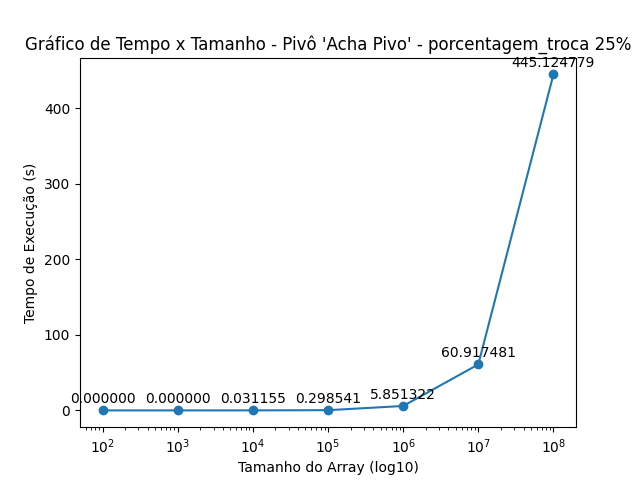
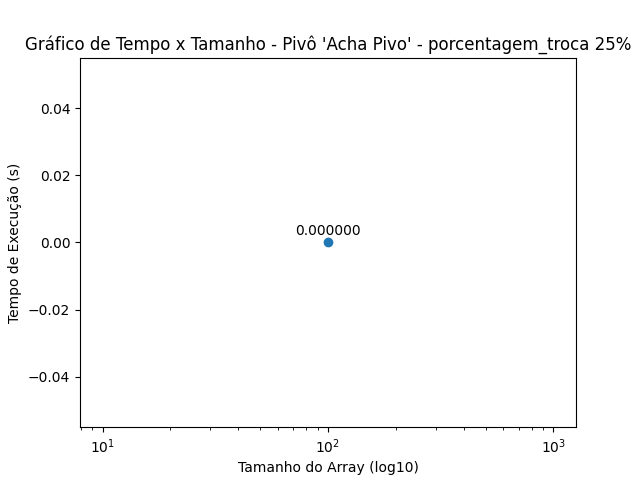
Deixando Comentado para apresentar e refatoração de componentes

diff --git a/main.py b/main.py
@@ -1,53 +1,15 @@
-import random
-import random
-import os
-import matplotlib.pyplot as plt
-
 from QuickSort import QuickSort
+from mediana import trocar_porcentagem
+from util import plotar_e_salvar_grafico
 
+quantidade_iteracoes = 10
 
-def trocar_porcentagem(array, porcentagem):
-    if porcentagem < 0 or porcentagem > 100:
-        raise ValueError("A porcentagem deve estar entre 0 e 100.")
+tamanhos_array = [int(1e2), int(1e3), int(1e4), int(1e5), int(1e6), int(1e7)]
 
-    n = len(array)
-    num_trocas = int(n * porcentagem / 100)
-
-    for _ in range(num_trocas):
-        index_a, index_b = random.sample(range(n), 2)
-        array[index_a], array[index_b] = array[index_b], array[index_a]
-
-def plotar_e_salvar_grafico(tempo, tamanho, titulo, nome_arquivo):
-    # Verifica se as listas têm o mesmo tamanho
-    if len(tempo) != len(tamanho):
-        raise ValueError("As listas de tempo e tamanho devem ter o mesmo tamanho")
-
-    # Cria uma nova figura a cada iteração para mostrar apenas a linha atual
-    plt.figure()
-
-    # Plota a linha atual com escala logarítmica apenas no eixo X (base 10)
-    plt.semilogx(tamanho, tempo, marker='o')
-
-    # Adiciona título e rótulos aos eixos
-    plt.title(titulo)
-    plt.xlabel('Tamanho do Array (log10)')
-    plt.ylabel('Tempo de Execução (s)')
-
-    # Marca todos os pontos no gráfico
-    for i, txt in enumerate(tempo):
-        plt.annotate(f'{txt:.6f}', (tamanho[i], tempo[i]), textcoords="offset points", xytext=(0,5), ha='center')
-
-    # Verifica se a pasta 'grafico' existe, se não, cria
-    if not os.path.exists('grafico'):
-        os.makedirs('grafico')
-
-    # Salva a figura na pasta 'grafico'
-    caminho_arquivo = os.path.join('grafico', nome_arquivo)
-    plt.savefig(caminho_arquivo)
-
-tamanhos_array = [int(1e2), int(1e3), int(1e4), int(1e5), int(1e6), int(1e7), int(1e8)]
 porcentagens_troca = [45, 25, 5]
+
 metodos_pivo = [1, 2, 3, 4, 6, 5]
+
 metodos_pivo_nome = ["Primeiro", "Central",
                      "Média", "Randômico", "Mediana", "Acha Pivo"]
 
@@ -62,29 +24,38 @@ if __name__ == "__main__":
             titulo = f"Gráfico de Tempo x Tamanho - Pivô '{metodos_pivo_nome[metodo_pivo-1]}' - porcentagem_troca {porcentagem_troca}%"
 
             for tamanho_array in tamanhos_array:
-
-                lista_aleatoria = list(range(tamanho_array))
-
-                # Embaralhando a lista aleatória
-                trocar_porcentagem(lista_aleatoria, porcentagem_troca)
                 
-                # Criando uma instância da classe QuickSort
-                quick_sort = QuickSort(lista_aleatoria.copy())
+                tempo = 0
+                
+                for iteracao in range(quantidade_iteracoes):
+                    # Criando uma lista aleatória para ordenar
+                    lista_aleatoria = list(range(tamanho_array))
 
-                # Clonando a lista original para não modificar a original
-                lista_copia = lista_aleatoria.copy()
-                
-                # Ordenando a lista usando o método de escolha de pivô específico
-                quick_sort.ordenar(lista_copia, metodo_pivo)
-                
-                # Lista anterior
-                # print(lista_aleatoria)
-                # Exibindo o resultado
-                print(
-                       f"\nPivô '{metodos_pivo_nome[metodo_pivo-1]}', tamanho_array {tamanho_array}, tempo {quick_sort.time}\n\n")
-                # print(lista_copia)
+                    # Embaralhando a lista aleatória
+                    trocar_porcentagem(lista_aleatoria, porcentagem_troca)
+                    
+                    # Criando uma instância da classe QuickSort
+                    quick_sort = QuickSort(lista_aleatoria.copy())
+
+                    # Clonando a lista original para não modificar a original
+                    lista_ordenada = lista_aleatoria.copy()
+                    
+                    # Ordenando a lista usando o método de escolha de pivô específico
+                    quick_sort.ordenar(lista_ordenada, metodo_pivo)
+                    
+                    tempo += quick_sort.time
+                    
+                    print(
+                        f"\n\nIteração {iteracao}, Pivô '{metodos_pivo_nome[metodo_pivo-1]}', tamanho_array {tamanho_array}, tempo {quick_sort.time}, porcentagem_troca {porcentagem_troca}%\n")
+                    
+                    # Lista anterior
+                    # print("Lista Desordenada: ", lista_aleatoria)
+                    
+                    # # Exibindo o resultado
+                    # print("\nLista Ordenada", lista_ordenada)
+                    
                 tamanhos_na_iteracao.append(tamanho_array)
-                tempo_na_iteracao.append(quick_sort.time)
+                tempo_na_iteracao.append(tempo/quantidade_iteracoes)
 
             print(f"\nTítulo:\n {titulo}",
                   f"\nTamanhos na iteracao:\n {tamanhos_na_iteracao}",

diff --git a/util.py b/util.py
@@ -1,0 +1,43 @@
+import random
+import random
+import os
+import matplotlib.pyplot as plt
+
+def trocar_porcentagem(array, porcentagem):
+    if porcentagem < 0 or porcentagem > 100:
+        raise ValueError("A porcentagem deve estar entre 0 e 100.")
+
+    n = len(array)
+    num_trocas = int(n * porcentagem / 100)
+
+    for _ in range(num_trocas):
+        index_a, index_b = random.sample(range(n), 2)
+        array[index_a], array[index_b] = array[index_b], array[index_a]
+
+def plotar_e_salvar_grafico(tempo, tamanho, titulo, nome_arquivo):
+    # Verifica se as listas têm o mesmo tamanho
+    if len(tempo) != len(tamanho):
+        raise ValueError("As listas de tempo e tamanho devem ter o mesmo tamanho")
+
+    # Cria uma nova figura a cada iteração para mostrar apenas a linha atual
+    plt.figure()
+
+    # Plota a linha atual com escala logarítmica apenas no eixo X (base 10)
+    plt.semilogx(tamanho, tempo, marker='o')
+
+    # Adiciona título e rótulos aos eixos
+    plt.title(titulo)
+    plt.xlabel('Tamanho do Array (log10)')
+    plt.ylabel('Tempo de Execução (s)')
+
+    # Marca todos os pontos no gráfico
+    for i, txt in enumerate(tempo):
+        plt.annotate(f'{txt:.6f}', (tamanho[i], tempo[i]), textcoords="offset points", xytext=(0,5), ha='center')
+
+    # Verifica se a pasta 'grafico' existe, se não, cria
+    if not os.path.exists('grafico'):
+        os.makedirs('grafico')
+
+    # Salva a figura na pasta 'grafico'
+    caminho_arquivo = os.path.join('grafico', nome_arquivo)
+    plt.savefig(caminho_arquivo)

diff --git a/mediana.py b/mediana.py
@@ -115,5 +115,3 @@ def find_median(arr, n) :
     return ans
  
 
-quick_sort(lista_aleatoria, 0, len(lista_aleatoria) - 1)
-print(lista_aleatoria)
